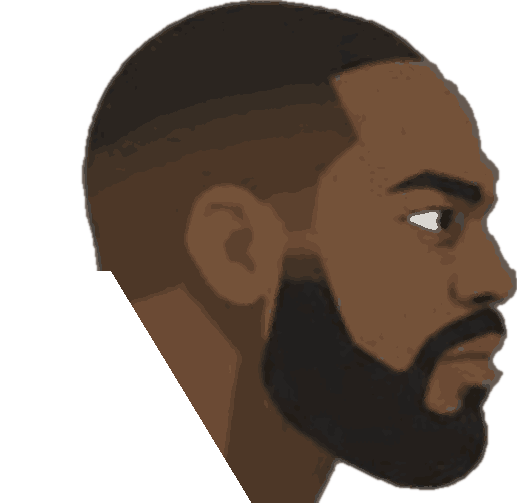
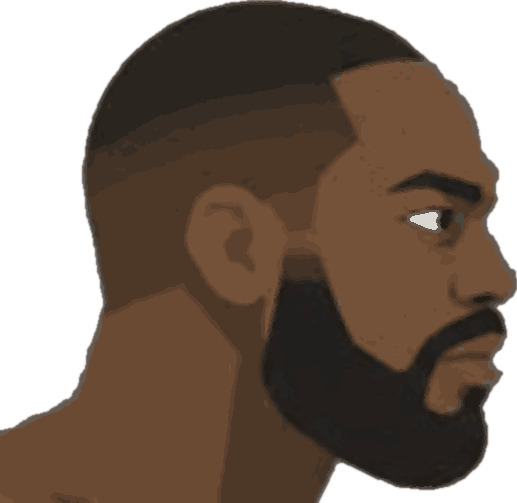
Jon Jones face: head scale and placement matched to the guide (head ~16% of height, neck slope kept)
Claude-Session: https://claude.ai/code/session_01BMyqTur5CGsYQhULeeiyXv

Changed region(s): [[0.0, 0.5368, 0.4952, 1.0]]

diff --git a/cage/src/Cutout.js b/cage/src/Cutout.js
@@ -10,14 +10,14 @@
 if(typeof Body==='undefined')return;
 const CO=window.CUTOUT={on:!/[?&]cutout=0/.test(location.search),sets:{}};
 const clamp=(v,a,b)=>v<a?a:v>b?b:v;
-const CURATED={'Jon Jones':{cutout:'jones',skin:'#6e4c35',shorts:'#232326',glove:'#17171a'}};
+const CURATED={'Jon Jones':{cutout:'jones',skin:'#6b4a34',shorts:'#232326',glove:'#17171a'}};
 if(typeof lookFor==='function'){const lf=lookFor;window.lookFor=function(f){const L=lf.apply(this,arguments);const C=CURATED[f&&f.n];if(C)Object.assign(L,C);return L}}
 function load(name){let S=CO.sets[name];if(S)return S;S=CO.sets[name]={ready:false};
   fetch('assets/cutout/'+name+'/parts.json').then(r=>r.json()).then(m=>{S.meta=m;const im=new Image();im.onload=()=>{S.img=im;S.ready=true};im.src='assets/cutout/'+name+'/'+m.image}).catch(()=>{S.failed=true});
   /* the close-up of the head with neck and shoulder slope (used for the face when present) */
   fetch('assets/cutout/'+name+'/head2.json').then(r=>r.json()).then(m=>{const im=new Image();im.onload=()=>{S.h2={img:im,headH:m.headH,meta:{parts:{head2:{x:0,y:0,w:m.w,h:m.h,p0:m.p0,p1:m.p1}}}}};im.src='assets/cutout/'+name+'/'+m.image}).catch(()=>{});return S}
 CO.body=false;
-CO.head=function(ctx,hd,nk,H,B,d){const lk=B.look;if(!CO.on||!lk||!lk.cutout)return false;const S=load(lk.cutout);if(S.h2){/* anchored on the head centre, hanging down along the neck line */ctx.imageSmoothingEnabled=true;ctx.imageSmoothingQuality='high';put(ctx,S.h2,'head2',hd,nk,d,H*(lk.headK||.19)/S.h2.headH,1,1,true);return true}if(!S.ready)return false;const ku=H*1.03/(S.meta.h*.935)*1.08;ctx.imageSmoothingEnabled=true;ctx.imageSmoothingQuality='high';/* the neck: a solid column from the shoulders up under the jaw (the picture's head part carries only a stub of it) */
+CO.head=function(ctx,hd,nk,H,B,d){const lk=B.look;if(!CO.on||!lk||!lk.cutout)return false;const S=load(lk.cutout);if(S.h2){/* anchored on the head centre, hanging down along the neck line */ctx.imageSmoothingEnabled=true;ctx.imageSmoothingQuality='high';put(ctx,S.h2,'head2',hd,nk,d,H*(lk.headK||.16)/S.h2.headH,1,1,true);return true}if(!S.ready)return false;const ku=H*1.03/(S.meta.h*.935)*1.08;ctx.imageSmoothingEnabled=true;ctx.imageSmoothingQuality='high';/* the neck: a solid column from the shoulders up under the jaw (the picture's head part carries only a stub of it) */
   {const L=Math.hypot(hd.x-nk.x,hd.y-nk.y)||1e-5,ux=(hd.x-nk.x)/L,uy=(hd.y-nk.y)/L;let nx=-uy,ny=ux;if(nx*d<0){nx=-nx;ny=-ny}const skin=lk.skin||'#7d5033';
    const Q=(aa,bb)=>({x:nk.x+ux*aa+nx*bb,y:nk.y+uy*aa+ny*bb});
    const poly=[Q(-.05*H,.05*H),Q(.04*H,.042*H),Q(L*.9,.036*H),Q(L*1.0,-.04*H),Q(.03*H,-.075*H),Q(-.05*H,-.1*H)];
